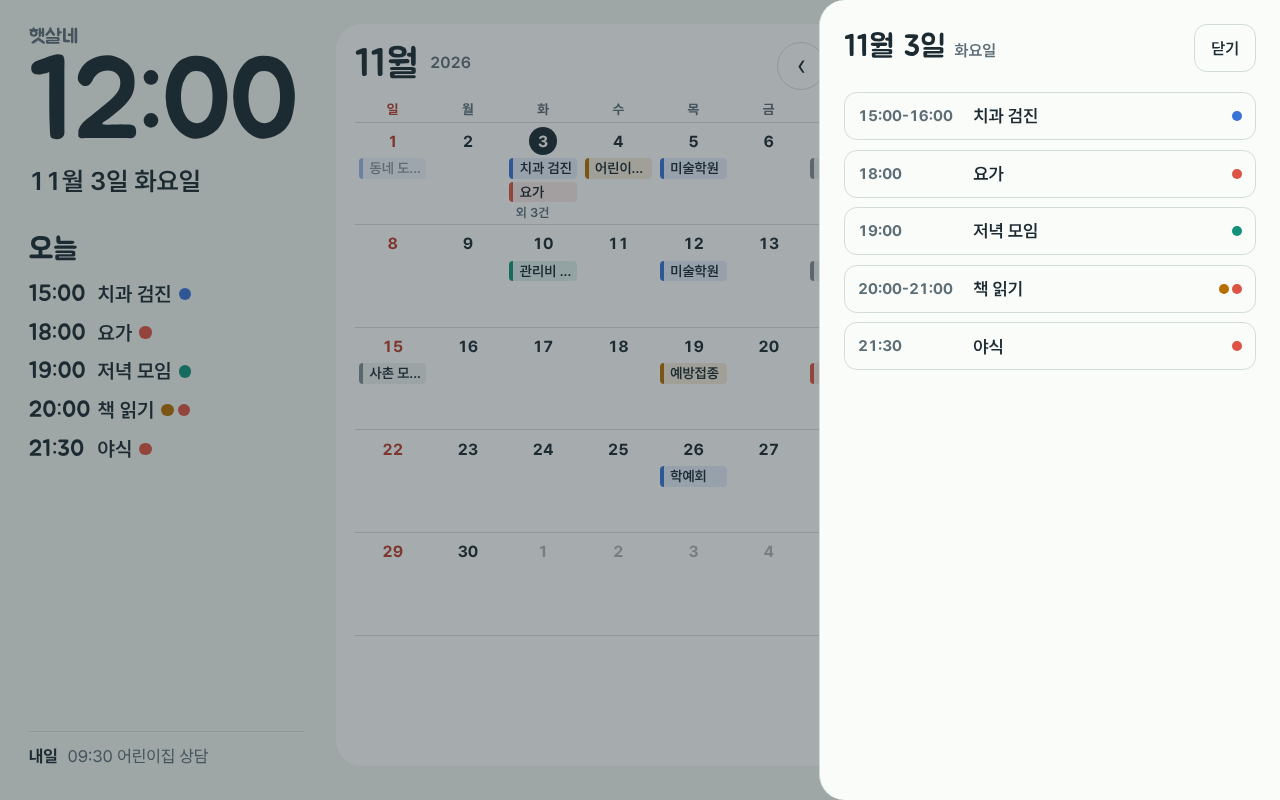
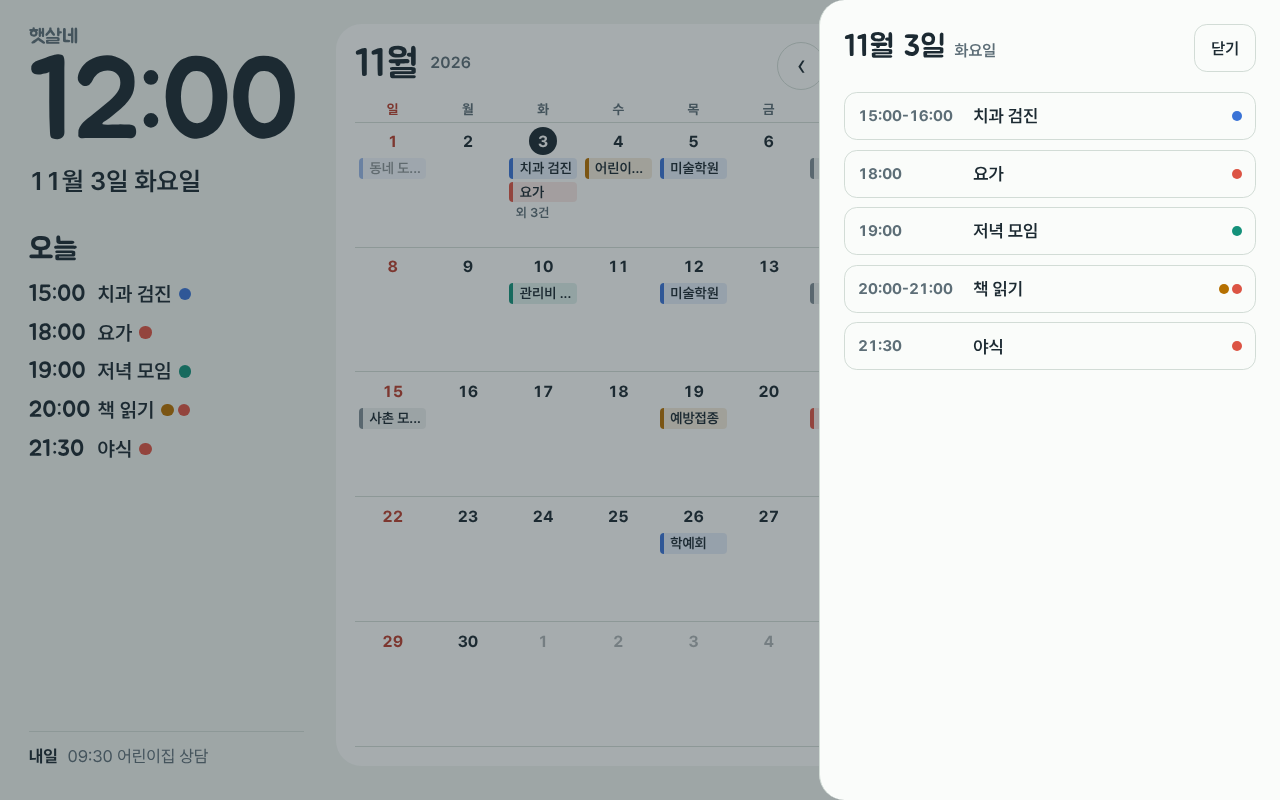
#31 리뷰 되돌림 수정: 달력 행 정의·미리보기 시각·월 응답 일치·시트 포커스
Claude-Session: https://claude.ai/code/session_01LqKqzzQUCNsU7pVB69hNTG

diff --git a/apps/dashboard/hooks/useDashboardState.ts b/apps/dashboard/hooks/useDashboardState.ts
@@ -6,11 +6,15 @@ export interface PolledState {
   state: ApiState;
   /** 마지막 폴링이 실패했는지 (노트북 꺼짐·응답 형식 오류 등) */
   offline: boolean;
+  /** state.events가 실려 온 달(YYYY-MM). 보는 달과 다르면 달력 칸 일정은 아직 그 달 것이 아니다 */
+  loadedMonth?: string;
 }
 
 export interface PollOptions {
   /** 달력 둘러보기용 달(YYYY-MM). 바뀌면 바로 한 번 가져온다. 없으면 서버의 이번 달 */
   month?: string;
+  /** 시안용 고정 시각(ISO). 서버가 previewQuery일 때만 받는다 */
+  at?: string;
   intervalMs?: number;
 }
 
@@ -18,8 +22,8 @@ export interface PollOptions {
  * /api/state를 주기적으로 가져온다. 실패하거나 응답 형식이 다르면 마지막 상태를 그대로 둔다.
  * 보기 상태(보는 달·시트)는 이 훅 밖(DashboardViewState)에 있어서, 폴링 결과가 와도 바뀌지 않는다.
  */
-export function useDashboardState(initial: ApiState, { month, intervalMs = 60_000 }: PollOptions = {}): PolledState {
-  const [polled, setPolled] = useState<PolledState>({ state: initial, offline: false });
+export function useDashboardState(initial: ApiState, { month, at, intervalMs = 60_000 }: PollOptions = {}): PolledState {
+  const [polled, setPolled] = useState<PolledState>({ state: initial, offline: false, loadedMonth: month });
   const firstMonth = useRef(month); // 서버가 첫 화면에 이미 실어 준 달은 바로 다시 가져오지 않는다
   const seq = useRef(0);
 
@@ -28,11 +32,14 @@ export function useDashboardState(initial: ApiState, { month, intervalMs = 60_00
     const tick = async () => {
       const mine = ++seq.current;
       try {
-        const res = await fetch(month ? `/api/state?month=${encodeURIComponent(month)}` : "/api/state", { cache: "no-store" });
+        const q = new URLSearchParams();
+        if (month) q.set("month", month);
+        if (at) q.set("at", at);
+        const res = await fetch(q.size ? `/api/state?${q}` : "/api/state", { cache: "no-store" });
         if (!res.ok) throw new Error(String(res.status));
         const state = apiStateSchema.parse(await res.json());
         // 달을 빠르게 넘기면 늦게 온 이전 달 응답이 덮어쓰지 않게 가장 마지막 요청만 반영
-        if (alive && mine === seq.current) setPolled({ state, offline: false });
+        if (alive && mine === seq.current) setPolled({ state, offline: false, loadedMonth: month });
       } catch {
         if (alive && mine === seq.current) setPolled((p) => ({ ...p, offline: true }));
       }
@@ -46,7 +53,7 @@ export function useDashboardState(initial: ApiState, { month, intervalMs = 60_00
       alive = false;
       clearInterval(id);
     };
-  }, [month, intervalMs]);
+  }, [month, at, intervalMs]);
 
   return polled;
 }

diff --git a/apps/dashboard/components/widgets/MonthCalendar.tsx b/apps/dashboard/components/widgets/MonthCalendar.tsx
@@ -9,6 +9,8 @@ import s from "./MonthCalendar.module.css";
 
 export interface MonthCalendarProps {
   events: Event[];
+  /** 그 달 일정이 아직 안 왔거나(loading) 못 가져왔을 때(failed): 칸을 비워 두고 누를 수 없게 하며 안내를 보인다. 기본 ready */
+  status?: "ready" | "loading" | "failed";
   today: string;
   members: MemberMap;
   /** 보여 줄 달(YYYY-MM). 없으면 오늘이 속한 달 */
@@ -25,7 +27,7 @@ export interface MonthCalendarProps {
  * 일요일 시작 월간 달력. 칸당 최대 2건 + "외 n건". 색 막대는 첫 구성원 색.
  * 표시 컴포넌트: 일정 목록과 달만 받고, 보기 상태(어느 달·어느 날짜)는 상위가 갖는다. 콜백이 없으면 보기 전용이다.
  */
-export function MonthCalendar({ events, today, members, month = today.slice(0, 7), onSelectDate, onChangeMonth, canMove = { prev: true, next: true } }: MonthCalendarProps) {
+export function MonthCalendar({ events, status = "ready", today, members, month = today.slice(0, 7), onSelectDate, onChangeMonth, canMove = { prev: true, next: true } }: MonthCalendarProps) {
   const days = monthGrid(month);
   const byDate = new Map<string, Event[]>();
   for (const e of events) {
@@ -42,11 +44,16 @@ export function MonthCalendar({ events, today, members, month = today.slice(0, 7
   const label = `${Number(month.slice(5))}월`;
 
   return (
-    <section ref={root} className={s.calendar} aria-label={`${label} 달력`} data-browsable={onChangeMonth || onSelectDate ? "" : undefined}>
+    <section ref={root} className={s.calendar} aria-label={`${label} 달력`} data-browsable={onChangeMonth || onSelectDate ? "" : undefined} aria-busy={status === "loading" || undefined}>
       <div className={s.head}>
         <h2 className={s.month}>
           {label} <span className={s.year}>{month.slice(0, 4)}</span>
         </h2>
+        {status !== "ready" && (
+          <p className={s.status} role="status">
+            {status === "loading" ? "일정을 불러오는 중이에요" : "이 달 일정을 가져오지 못했어요. 다시 시도하고 있어요"}
+          </p>
+        )}
         {onChangeMonth && (
           <div className={s.nav}>
             <button type="button" className={s.navBtn} onClick={() => onChangeMonth(-1)} disabled={!canMove.prev} aria-label="이전 달">
@@ -90,7 +97,7 @@ export function MonthCalendar({ events, today, members, month = today.slice(0, 7
               data-today={d === today || undefined}
               aria-current={d === today ? "date" : undefined}
             >
-              {onSelectDate ? (
+              {onSelectDate && status === "ready" ? (
                 <button
                   type="button"
                   className={s.cellBtn}

diff --git a/apps/dashboard/components/Dashboard.tsx b/apps/dashboard/components/Dashboard.tsx
@@ -25,6 +25,8 @@ export interface DashboardProps {
   state: ApiState;
   /** 마지막 폴링이 실패했는지 */
   offline: boolean;
+  /** 보는 달의 일정이 도착했는지. false면 달력 칸은 비워 두고 불러오는 중(또는 실패)으로 표시한다 */
+  monthLoaded?: boolean;
   /** 시안·테스트용 고정 시각 (ISO) */
   at?: string;
   /** 시안·테스트용 강제 모드 */
@@ -36,7 +38,7 @@ export interface DashboardProps {
   browse?: { view: DashboardViewState; handlers: BrowseHandlers };
 }
 
-export function Dashboard({ state, offline, at, mode, browse }: DashboardProps) {
+export function Dashboard({ state, offline, monthLoaded = true, at, mode, browse }: DashboardProps) {
   // 서버 렌더 시각(updatedAt)으로 시작해야 서버 HTML과 첫 클라이언트 렌더가 같다
   const now = useNow(at, state.updatedAt);
   const today = todayIn(now);
@@ -93,7 +95,8 @@ export function Dashboard({ state, offline, at, mode, browse }: DashboardProps) 
           </div>
           <div className={s.calendar}>
             <MonthCalendar
-              events={state.events}
+              events={monthLoaded ? state.events : []}
+              status={monthLoaded ? "ready" : offline ? "failed" : "loading"}
               today={today}
               members={members}
               month={month}

diff --git a/apps/dashboard/app/api/state/route.ts b/apps/dashboard/app/api/state/route.ts
@@ -1,6 +1,9 @@
 // 태블릿이 1분마다 폴링하는 상태 API. 요청 때마다 위키 사본을 파싱해 돌려준다.
+// ?at=ISO: 개발 모드(previewQuery)에서만 받는 고정 시각.
 // ?month=YYYY-MM: 달력 둘러보기용 달(없으면 이번 달). 형식·범위(2000-01~2100-12)가 틀리거나 여러 번 주면 400.
 import { parseMonth } from "@hsh/core";
+import { config } from "@/lib/config";
+import { parsePreview } from "@/lib/preview";
 import { getApiState } from "@/lib/state";
 
 export const dynamic = "force-dynamic";
@@ -15,5 +18,7 @@ export async function GET(request: Request) {
     month = all.length === 1 ? parseMonth(all[0]) : undefined;
     if (!month) return Response.json({ error: "invalid_month", message: "month는 YYYY-MM(2000-01~2100-12) 형식이어야 해요" }, { status: 400, headers: NO_STORE });
   }
-  return Response.json(await getApiState(undefined, month), { headers: NO_STORE });
+  // ?at=: 시안·테스트용 고정 시각(오늘·내일 기준). previewQuery가 꺼진 운영에서는 무시한다(page와 같은 규칙).
+  const { at } = parsePreview({ at: params.get("at") ?? undefined }, config.get("previewQuery"));
+  return Response.json(await getApiState(at ? new Date(at) : undefined, month), { headers: NO_STORE });
 }

diff --git a/apps/dashboard/components/Screen.tsx b/apps/dashboard/components/Screen.tsx
@@ -28,14 +28,14 @@ export function Screen({ initial, initialQr, at, mode, skinPreview }: ScreenProp
   // 보기 상태(보는 달·시트·마지막 터치)는 폴링 결과와 따로 여기서 갖는다 -> 1분 폴링이 와도 유지, 120초 조용하면 초기화.
   const today = todayIn(useNow(at, initial.updatedAt));
   const { view, month, handlers } = useDashboardView(today.slice(0, 7));
-  const { state, offline } = useDashboardState(initial, { month });
+  const { state, offline, loadedMonth } = useDashboardState(initial, { month, at });
   useSkin(skinPreview ?? state.skin);
   useKioskGuards();
   const qr = useSetupQr(initialQr, state.needsSetup);
   return (
     // data-surface="tablet": 키오스크 CSS(핀치·당겨서 새로고침·글자 선택 차단)는 이 표식이 있을 때만 건다(휴대폰 /setup은 그대로)
     <div data-surface="tablet" style={{ display: "contents" }}>
-      {state.needsSetup ? <SetupNeeded qr={qr} /> : <Dashboard state={state} offline={offline} at={at} mode={mode} browse={{ view, handlers }} />}
+      {state.needsSetup ? <SetupNeeded qr={qr} /> : <Dashboard state={state} offline={offline} monthLoaded={loadedMonth === month} at={at} mode={mode} browse={{ view, handlers }} />}
     </div>
   );
 }

diff --git a/apps/dashboard/hooks/useDashboardView.ts b/apps/dashboard/hooks/useDashboardView.ts
@@ -1,6 +1,6 @@
 "use client";
 import { useCallback, useEffect, useMemo, useReducer } from "react";
-import { INITIAL_VIEW, isIdleExpired, msUntilReset, viewMonthOf, viewReducer, type DashboardViewState } from "@/lib/view-state";
+import { INITIAL_VIEW, isIdleExpired, msUntilReset, viewMonthOf, viewReducer } from "@/lib/view-state";
 
 /** 위젯이 받는 콜백 묶음. 없으면 그 위젯은 보기 전용이다. */
 export interface BrowseHandlers {
@@ -48,5 +48,5 @@ export function useDashboardView(baseMonth: string) {
 
   const reset = useCallback(() => dispatch({ type: "reset" }), []);
   const month = viewMonthOf(baseMonth, view.monthOffset);
-  return { view: view as DashboardViewState, month, handlers, reset };
+  return { view, month, handlers, reset };
 }

diff --git a/apps/dashboard/components/widgets/MonthCalendar.module.css b/apps/dashboard/components/widgets/MonthCalendar.module.css
@@ -1,6 +1,6 @@
 .calendar {
   display: grid;
-  grid-template-rows: auto auto auto minmax(0, 1fr);
+  grid-template-rows: auto auto minmax(0, 1fr);
   min-height: 0;
   padding: 1.1rem 1.2rem 1.2rem;
   background: var(--sheet);
@@ -194,6 +194,13 @@
 .more {
   padding-left: 0.4rem;
   font-size: 0.8rem;
+  font-weight: 600;
+  color: var(--muted);
+}
+
+.status {
+  margin: 0;
+  font-size: 0.95rem;
   font-weight: 600;
   color: var(--muted);
 }

diff --git a/apps/dashboard/components/ui/Sheet.tsx b/apps/dashboard/components/ui/Sheet.tsx
@@ -53,7 +53,7 @@ export function Sheet({
       const first = items[0]!;
       const last = items[items.length - 1]!;
       const active = document.activeElement;
-      if (e.shiftKey && (active === first || active === el)) {
+      if (e.shiftKey && (active === first || active === el || !items.includes(active as HTMLElement))) {
         e.preventDefault();
         last.focus();
       } else if (!e.shiftKey && active === last) {

diff --git a/progress.md b/progress.md
@@ -137,3 +137,9 @@
 - #28 후속: layout이 `/`일 때만 서버 시각 기준 data-mode·data-tone 렌더(proxy가 `x-hsh-path` 헤더), skin e2e theme-color를 시각 기준으로, `getSkinForLayout`을 react `cache`로.
 - 검증: pnpm check(490 테스트)·build, e2e 5종(auth·stress·setup·skin·touch 신규 14단계) 통과. 캡처 `docs/screens/touch-*.png`. e2e가 잡은 것: 스와이프 직후 탭 삼킴(에뮬레이션 한정), 야간 깨우는 탭이 날짜 칸을 누름(600ms 클릭 삼킴으로 수정), 합성 핀치는 isMobile에서만 viewport를 따름(대조군 포함).
 - 남은 문제: 실기기 제스처(핀치·뒤로 가기·길게 누르기)는 #24. 야간 첫 HTML의 night 분기는 e2e가 서버 시각을 못 바꿔 단위 테스트로만. 응답이 전체 일정 -> 달 단위로 바뀜. 재리뷰 필요: #13·#14·#15·#16·#17·#27·#28 review=pending으로 돌림(코드를 덧붙여 수정). #31은 passes=false, review=pending.
+
+## 2026-10-30 · #31 리뷰 되돌림 수정
+- [높음] MonthCalendar 행 정의를 자식 3개에 맞게 `auto auto minmax(0, 1fr)`로. touch e2e에 격자 바닥이 카드 바닥까지 차는지, 빈 달(2027-02)의 `[data-date]` 버튼이 모두 48px 이상인지 단언 추가.
+- [중간] `useDashboardState`가 `at`을 `/api/state`에 같이 보냄(서버는 previewQuery일 때만 받고 운영은 무시, parsePreview 규칙). e2e: 달을 넘긴 뒤에도 오늘 일정·내일 줄 유지.
+- [낮음] Sheet Shift+Tab(목록 밖 요소면 last), wiki-format share 문구 정정, useDashboardView 캐스팅 제거. 응답한 달(`loadedMonth`)이 보는 달과 다르면 달력 칸 일정을 비우고 "불러오는 중/가져오지 못했어요" 표시, 날짜 칸은 버튼이 아님.
+- 검증: pnpm check(490 테스트)·build, e2e 5종 통과, touch-*.png 재생성. 남은 문제: 로딩 상태·Shift+Tab은 단위 테스트 없이 e2e로만. #14·#31 passes=false, review=pending(재리뷰 대기).

diff --git a/docs/wiki-format.md b/docs/wiki-format.md
@@ -100,7 +100,7 @@ setupCompletedAt: 2026-10-20T20:00:00+09:00
 - 언제: `종일` 또는 `HH:MM` 또는 `HH:MM-HH:MM`(24시간).
 - 제목: 공백 포함 가능. 줄 끝의 `@멤버`(여러 개)와 `#evt-…` 토큰을 뗀 나머지.
 - 공유 그룹 `&그룹id`(선택, 스펙 rev 35): `@구성원` 뒤, `#id` 앞. 없으면 우리 가족만. 그룹 id는 `^[A-Za-z0-9_-]+$`(구성원 id와 같은 형식, 스펙 rev 54), 비교는 대소문자 무시, 일정당 1개. 꼬리의 `@`·`&` 토큰은 순서가 바뀌어도 읽고, 다시 쓸 땐 정규 순서로 쓴다.
-  MVP는 **필드만** 있다 — 공유 동작·그룹 정의·화면 변화 없음, `/api/state`에도 내보내지 않는다. 파서·직렬화는 토큰을 보존하고, `event.update`로 다른 필드를 고쳐도 유지한다.
+  MVP는 **필드만** 있다 — 공유 동작·그룹 정의 없음. 공유 그룹 id만 `/api/state`로 공개되어 상세 시트에 표시된다(아래). 파서·직렬화는 토큰을 보존하고, `event.update`로 다른 필드를 고쳐도 유지한다.
   `Change`(LLM 경로)에는 share가 없어 LLM이 만들거나 바꿀 수 없다(스키마가 버림, 제목의 `&토큰`은 거부/봇이 제거). 손으로 위키를 고쳐 넣는 값만 유효하다.
   깨진 토큰(2개 이상, `&`만 있음, 형식 위반)은 줄을 버리지 않고 share만 없는 것으로 읽고 경고한다(`events/…: share: …`). 원문 토큰은 파서가 내부에만 들고 있다가 apply로 다시 쓸 때 그대로 보존한다(state·Change로는 나가지 않음).
   `/api/state`에는 올바른 `share` 그룹 id만 일정에 실린다(상세 시트용, 결정 0006). 깨진 토큰 원문은 나가지 않는다.
